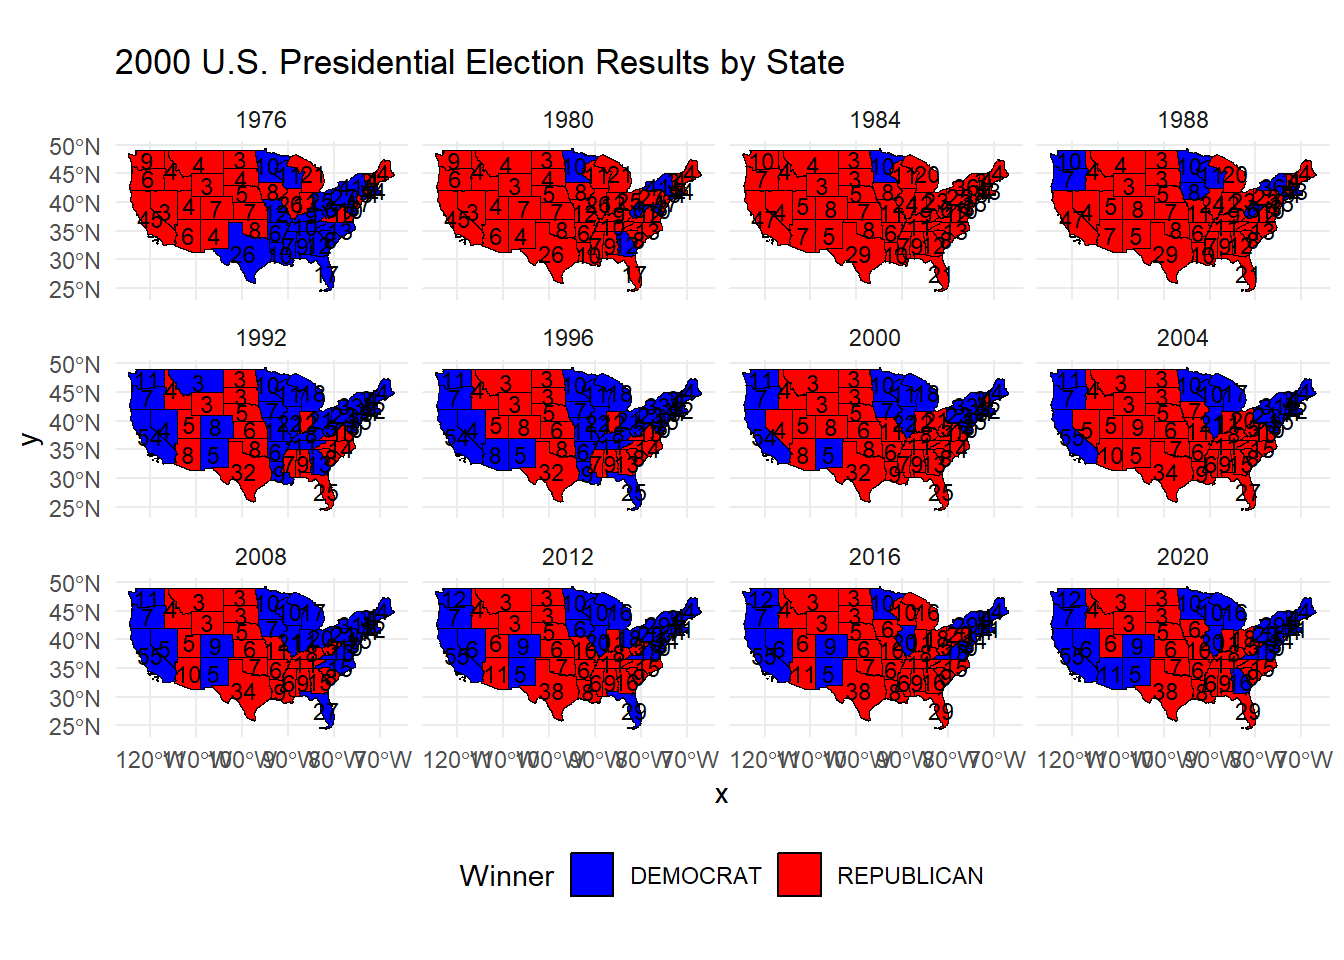
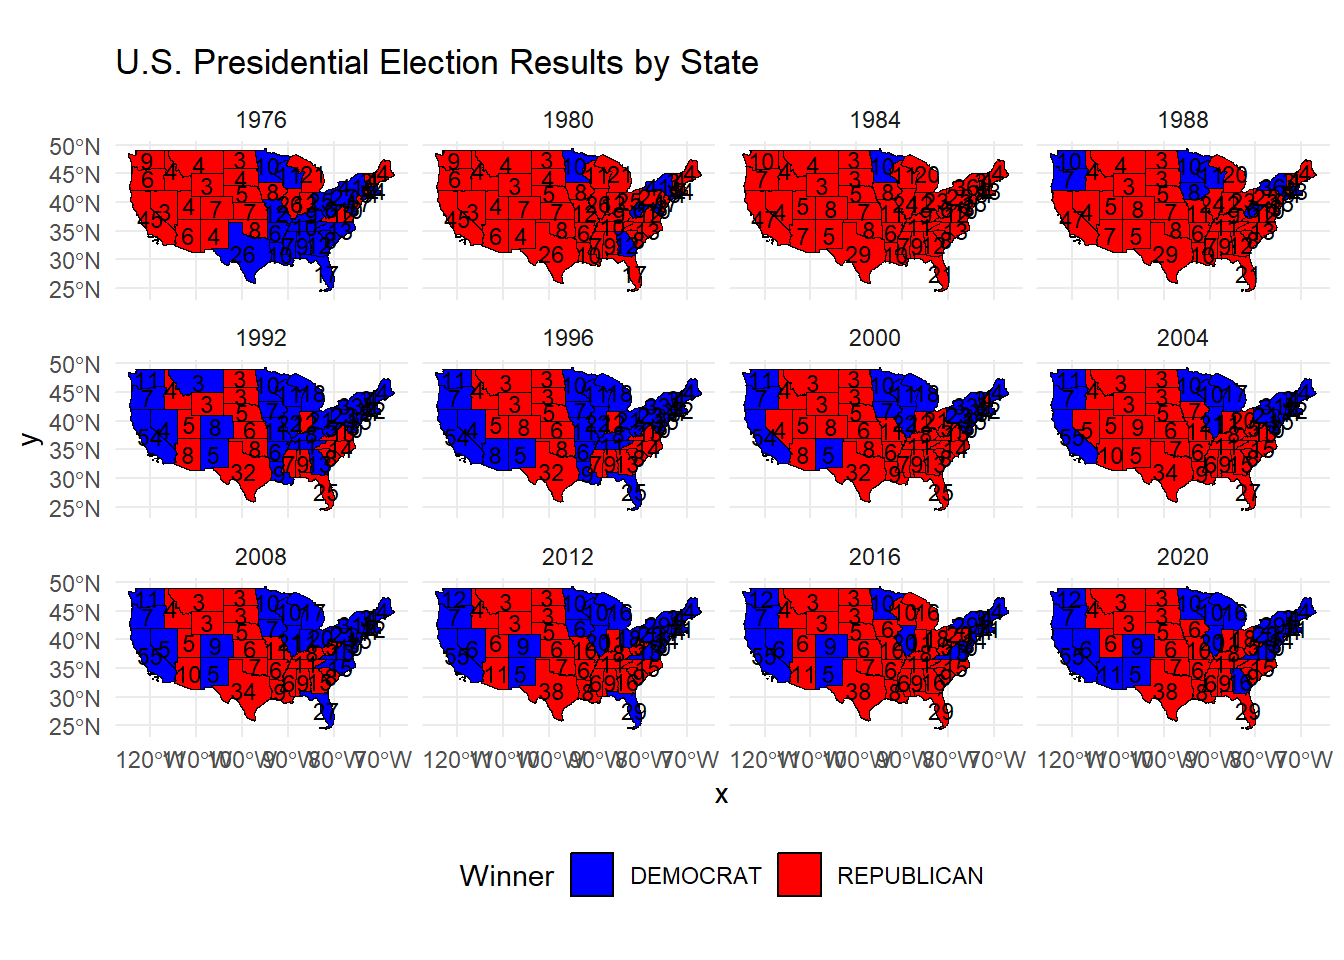
commit

Changed region(s): [[0.0938, 0.0312, 0.625, 0.0938]]

diff --git a/docs/mp03.html b/docs/mp03.html
@@ -817,7 +817,7 @@ Task 6: Advanced Chloropleth Visualization of Electoral College Results
 <span id="cb16-5"><a href="#cb16-5" aria-hidden="true" tabindex="-1"></a>  <span class="fu">geom_sf</span>(<span class="fu">aes</span>(<span class="at">fill =</span> party_simplified), <span class="at">color =</span> <span class="st">"black"</span>) <span class="sc">+</span>  </span>
 <span id="cb16-6"><a href="#cb16-6" aria-hidden="true" tabindex="-1"></a>  <span class="fu">scale_fill_manual</span>(<span class="at">values =</span> <span class="fu">c</span>(<span class="st">"REPUBLICAN"</span> <span class="ot">=</span> <span class="st">"red"</span>, <span class="st">"DEMOCRAT"</span> <span class="ot">=</span> <span class="st">"blue"</span>), <span class="at">name =</span> <span class="st">"Winner"</span>) <span class="sc">+</span></span>
 <span id="cb16-7"><a href="#cb16-7" aria-hidden="true" tabindex="-1"></a>  <span class="fu">geom_text</span>(<span class="fu">aes</span>(<span class="at">label =</span> elec_college, <span class="at">geometry =</span> geometry), <span class="at">size =</span> <span class="dv">3</span>, <span class="at">stat =</span> <span class="st">"sf_coordinates"</span>) <span class="sc">+</span></span>
-<span id="cb16-8"><a href="#cb16-8" aria-hidden="true" tabindex="-1"></a>  <span class="fu">labs</span>(<span class="at">title =</span> <span class="st">"2000 U.S. Presidential Election Results by State"</span>) <span class="sc">+</span></span>
+<span id="cb16-8"><a href="#cb16-8" aria-hidden="true" tabindex="-1"></a>  <span class="fu">labs</span>(<span class="at">title =</span> <span class="st">"U.S. Presidential Election Results by State"</span>) <span class="sc">+</span></span>
 <span id="cb16-9"><a href="#cb16-9" aria-hidden="true" tabindex="-1"></a>  <span class="fu">theme_minimal</span>() <span class="sc">+</span></span>
 <span id="cb16-10"><a href="#cb16-10" aria-hidden="true" tabindex="-1"></a>  <span class="fu">theme</span>(<span class="at">legend.position =</span> <span class="st">"bottom"</span>) <span class="sc">+</span></span>
 <span id="cb16-11"><a href="#cb16-11" aria-hidden="true" tabindex="-1"></a>  <span class="fu">facet_wrap</span>(<span class="sc">~</span> year) </span></code><button title="Copy to Clipboard" class="code-copy-button"><i class="bi"></i></button></pre></div>
@@ -852,18 +852,24 @@ Task 7: Evaluating Fairness of ECV Allocation Schemes
 <p>Recently, comparing the map below to the map in Task 6, we can see a recent election (2016) would have gotten a different candidate if the status quo was to elect the popular vote instead of electoral college. ]{style=“color: orange;”}</p>
 <div class="cell">
 <details class="code-fold">
-<summary>Task 6 - USA Electoral College - Mainland USA - Facet by Year Graph</summary>
-<div class="sourceCode cell-code" id="cb17"><pre class="sourceCode r code-with-copy"><code class="sourceCode r"><span id="cb17-1"><a href="#cb17-1" aria-hidden="true" tabindex="-1"></a><span class="fu">library</span>(sf)</span>
-<span id="cb17-2"><a href="#cb17-2" aria-hidden="true" tabindex="-1"></a><span class="fu">library</span>(dplyr)</span>
-<span id="cb17-3"><a href="#cb17-3" aria-hidden="true" tabindex="-1"></a><span class="fu">library</span>(ggplot2)</span>
+<summary>Task 6 - USA Popular Vote - Mainland USA - Facet by Year Graph</summary>
+<div class="sourceCode cell-code" id="cb17"><pre class="sourceCode r code-with-copy"><code class="sourceCode r"><span id="cb17-1"><a href="#cb17-1" aria-hidden="true" tabindex="-1"></a><span class="fu">library</span>(ggplot2)</span>
+<span id="cb17-2"><a href="#cb17-2" aria-hidden="true" tabindex="-1"></a></span>
+<span id="cb17-3"><a href="#cb17-3" aria-hidden="true" tabindex="-1"></a><span class="co"># color scale plot based on popular vote</span></span>
 <span id="cb17-4"><a href="#cb17-4" aria-hidden="true" tabindex="-1"></a><span class="fu">ggplot</span>(<span class="at">data =</span> contiguous_us_all) <span class="sc">+</span></span>
-<span id="cb17-5"><a href="#cb17-5" aria-hidden="true" tabindex="-1"></a>  <span class="fu">geom_sf</span>(<span class="fu">aes</span>(<span class="at">fill =</span> party_simplified), <span class="at">color =</span> <span class="st">"black"</span>) <span class="sc">+</span>  </span>
-<span id="cb17-6"><a href="#cb17-6" aria-hidden="true" tabindex="-1"></a>  <span class="fu">scale_fill_manual</span>(<span class="at">values =</span> <span class="fu">c</span>(<span class="st">"REPUBLICAN"</span> <span class="ot">=</span> <span class="st">"red"</span>, <span class="st">"DEMOCRAT"</span> <span class="ot">=</span> <span class="st">"blue"</span>), <span class="at">name =</span> <span class="st">"Winner"</span>) <span class="sc">+</span></span>
-<span id="cb17-7"><a href="#cb17-7" aria-hidden="true" tabindex="-1"></a>  <span class="fu">geom_text</span>(<span class="fu">aes</span>(<span class="at">label =</span> elec_college, <span class="at">geometry =</span> geometry), <span class="at">size =</span> <span class="dv">3</span>, <span class="at">stat =</span> <span class="st">"sf_coordinates"</span>) <span class="sc">+</span></span>
-<span id="cb17-8"><a href="#cb17-8" aria-hidden="true" tabindex="-1"></a>  <span class="fu">labs</span>(<span class="at">title =</span> <span class="st">"2000 U.S. Presidential Election Results by State"</span>) <span class="sc">+</span></span>
-<span id="cb17-9"><a href="#cb17-9" aria-hidden="true" tabindex="-1"></a>  <span class="fu">theme_minimal</span>() <span class="sc">+</span></span>
-<span id="cb17-10"><a href="#cb17-10" aria-hidden="true" tabindex="-1"></a>  <span class="fu">theme</span>(<span class="at">legend.position =</span> <span class="st">"bottom"</span>) <span class="sc">+</span></span>
-<span id="cb17-11"><a href="#cb17-11" aria-hidden="true" tabindex="-1"></a>  <span class="fu">facet_wrap</span>(<span class="sc">~</span> year) </span></code><button title="Copy to Clipboard" class="code-copy-button"><i class="bi"></i></button></pre></div>
+<span id="cb17-5"><a href="#cb17-5" aria-hidden="true" tabindex="-1"></a>  <span class="fu">geom_sf</span>(<span class="fu">aes</span>(<span class="at">fill =</span> <span class="fu">ifelse</span>(party_simplified <span class="sc">==</span> <span class="st">"REPUBLICAN"</span>, candidatevotes, <span class="sc">-</span>candidatevotes)), <span class="at">color =</span> <span class="st">"black"</span>) <span class="sc">+</span></span>
+<span id="cb17-6"><a href="#cb17-6" aria-hidden="true" tabindex="-1"></a>  <span class="fu">scale_fill_gradient2</span>(</span>
+<span id="cb17-7"><a href="#cb17-7" aria-hidden="true" tabindex="-1"></a>    <span class="at">name =</span> <span class="st">"Votes"</span>,</span>
+<span id="cb17-8"><a href="#cb17-8" aria-hidden="true" tabindex="-1"></a>    <span class="at">low =</span> <span class="st">"blue"</span>,        </span>
+<span id="cb17-9"><a href="#cb17-9" aria-hidden="true" tabindex="-1"></a>    <span class="at">mid =</span> <span class="st">"white"</span>,       </span>
+<span id="cb17-10"><a href="#cb17-10" aria-hidden="true" tabindex="-1"></a>    <span class="at">high =</span> <span class="st">"red"</span>,        </span>
+<span id="cb17-11"><a href="#cb17-11" aria-hidden="true" tabindex="-1"></a>    <span class="at">midpoint =</span> <span class="dv">0</span>        </span>
+<span id="cb17-12"><a href="#cb17-12" aria-hidden="true" tabindex="-1"></a>  ) <span class="sc">+</span></span>
+<span id="cb17-13"><a href="#cb17-13" aria-hidden="true" tabindex="-1"></a>  <span class="fu">geom_text</span>(<span class="fu">aes</span>(<span class="at">label =</span> elec_college, <span class="at">geometry =</span> geometry), <span class="at">size =</span> <span class="dv">3</span>, <span class="at">stat =</span> <span class="st">"sf_coordinates"</span>) <span class="sc">+</span></span>
+<span id="cb17-14"><a href="#cb17-14" aria-hidden="true" tabindex="-1"></a>  <span class="fu">labs</span>(<span class="at">title =</span> <span class="st">"2000 U.S. Presidential Election Results by State"</span>) <span class="sc">+</span></span>
+<span id="cb17-15"><a href="#cb17-15" aria-hidden="true" tabindex="-1"></a>  <span class="fu">theme_minimal</span>() <span class="sc">+</span></span>
+<span id="cb17-16"><a href="#cb17-16" aria-hidden="true" tabindex="-1"></a>  <span class="fu">theme</span>(<span class="at">legend.position =</span> <span class="st">"bottom"</span>) <span class="sc">+</span></span>
+<span id="cb17-17"><a href="#cb17-17" aria-hidden="true" tabindex="-1"></a>  <span class="fu">facet_wrap</span>(<span class="sc">~</span> year)  </span></code><button title="Copy to Clipboard" class="code-copy-button"><i class="bi"></i></button></pre></div>
 </details>
 <div class="cell-output-display">
 <div>
